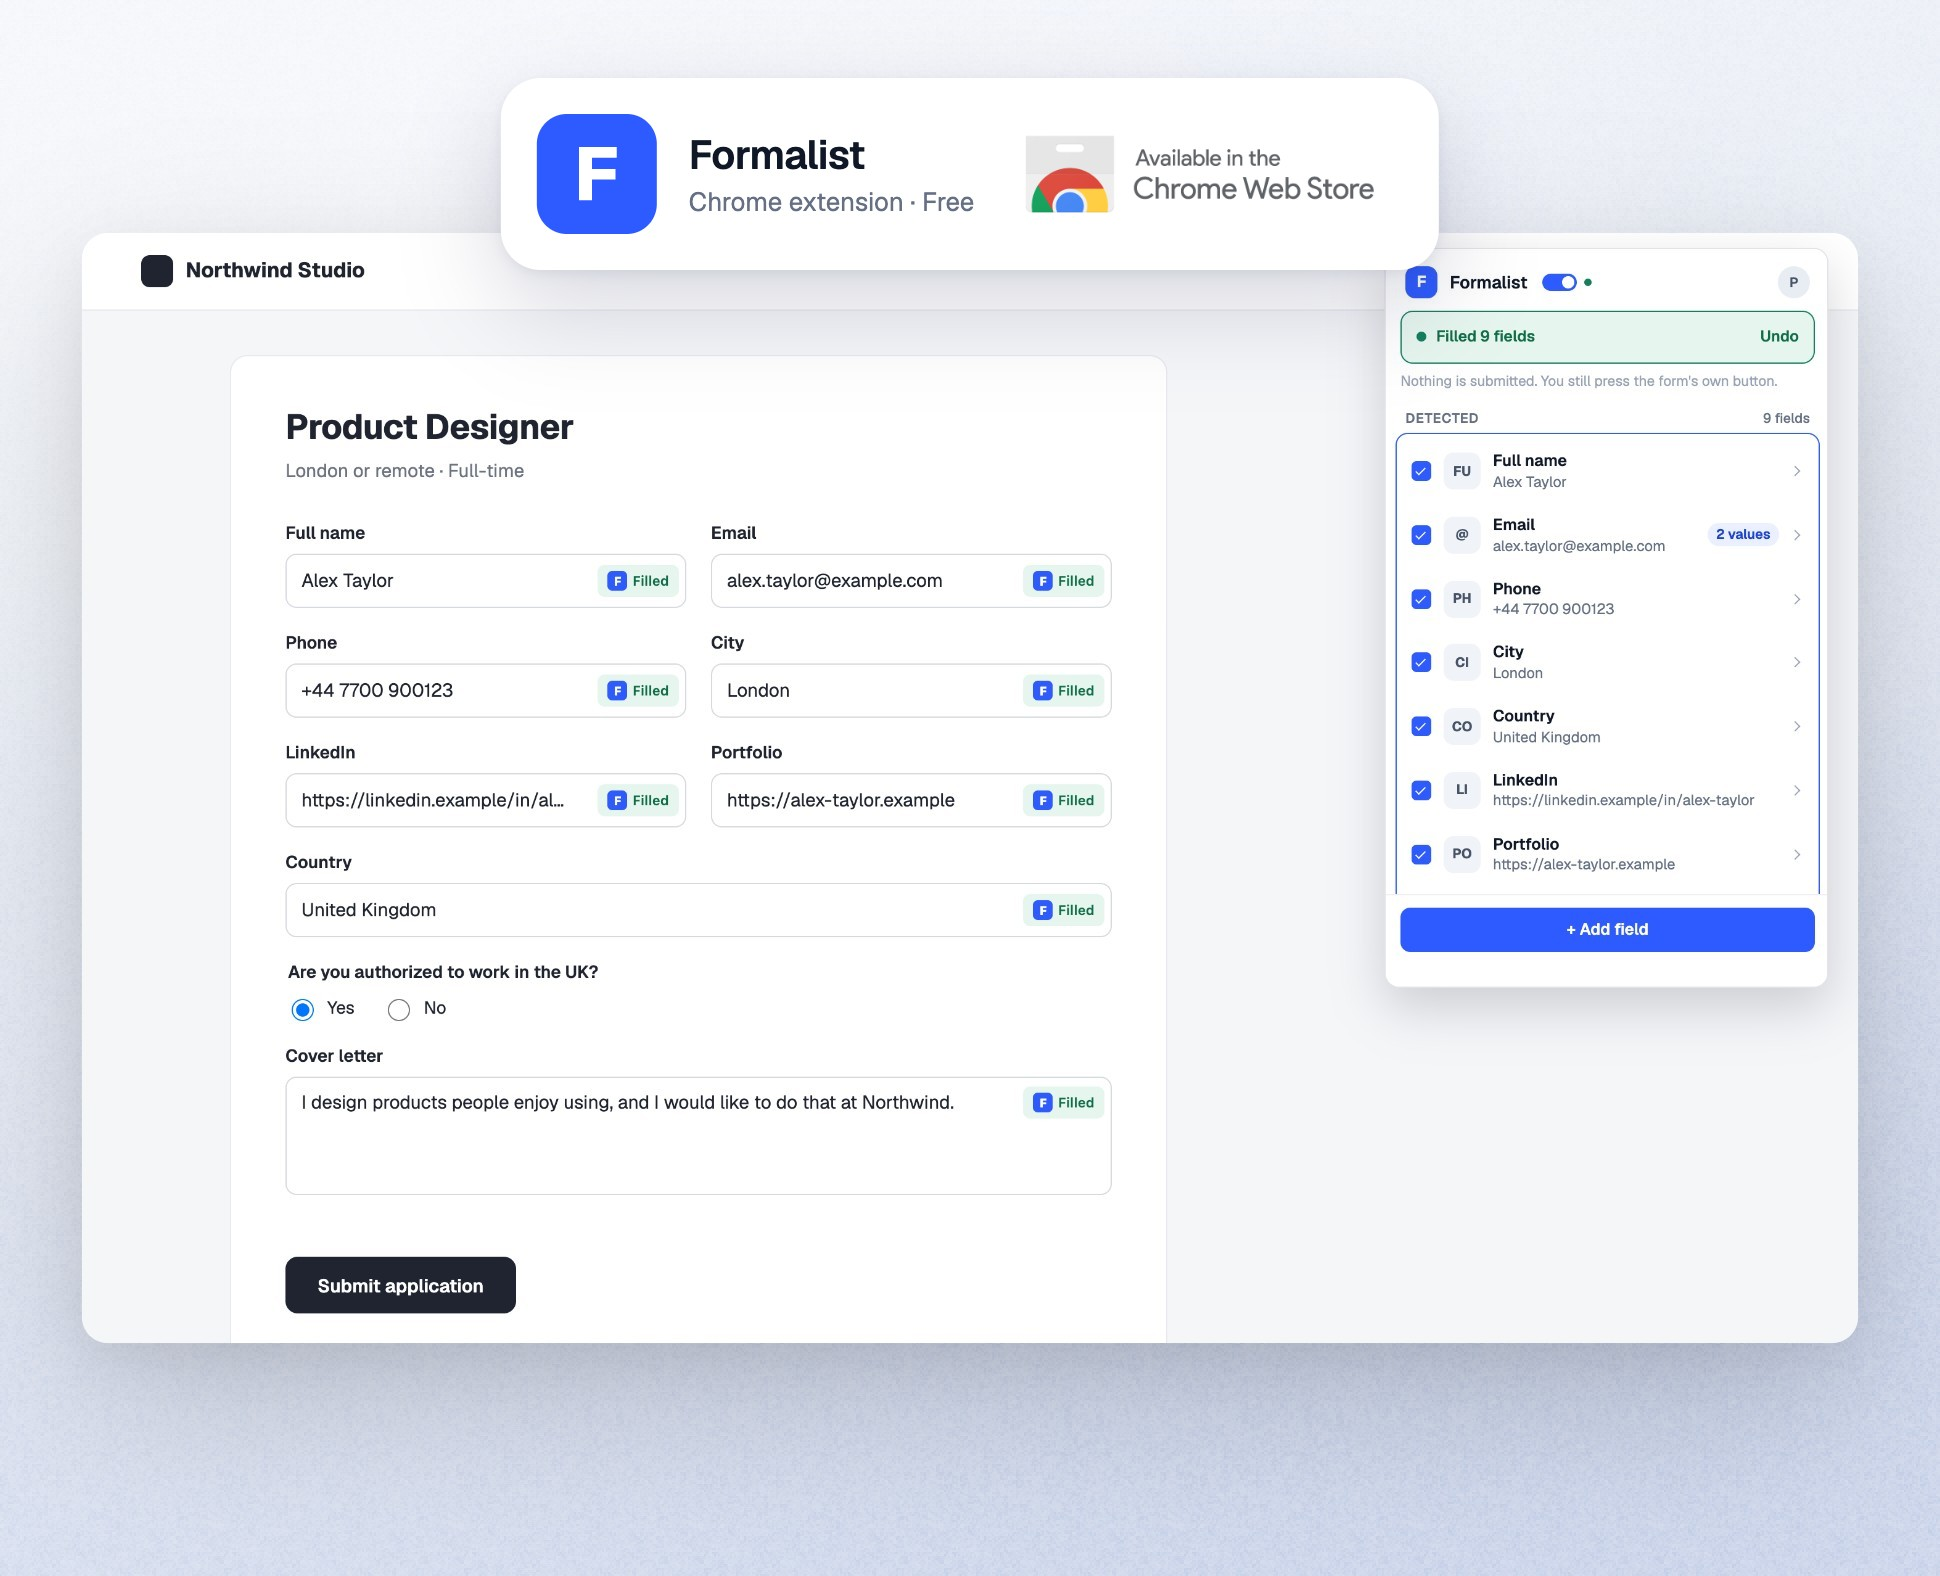
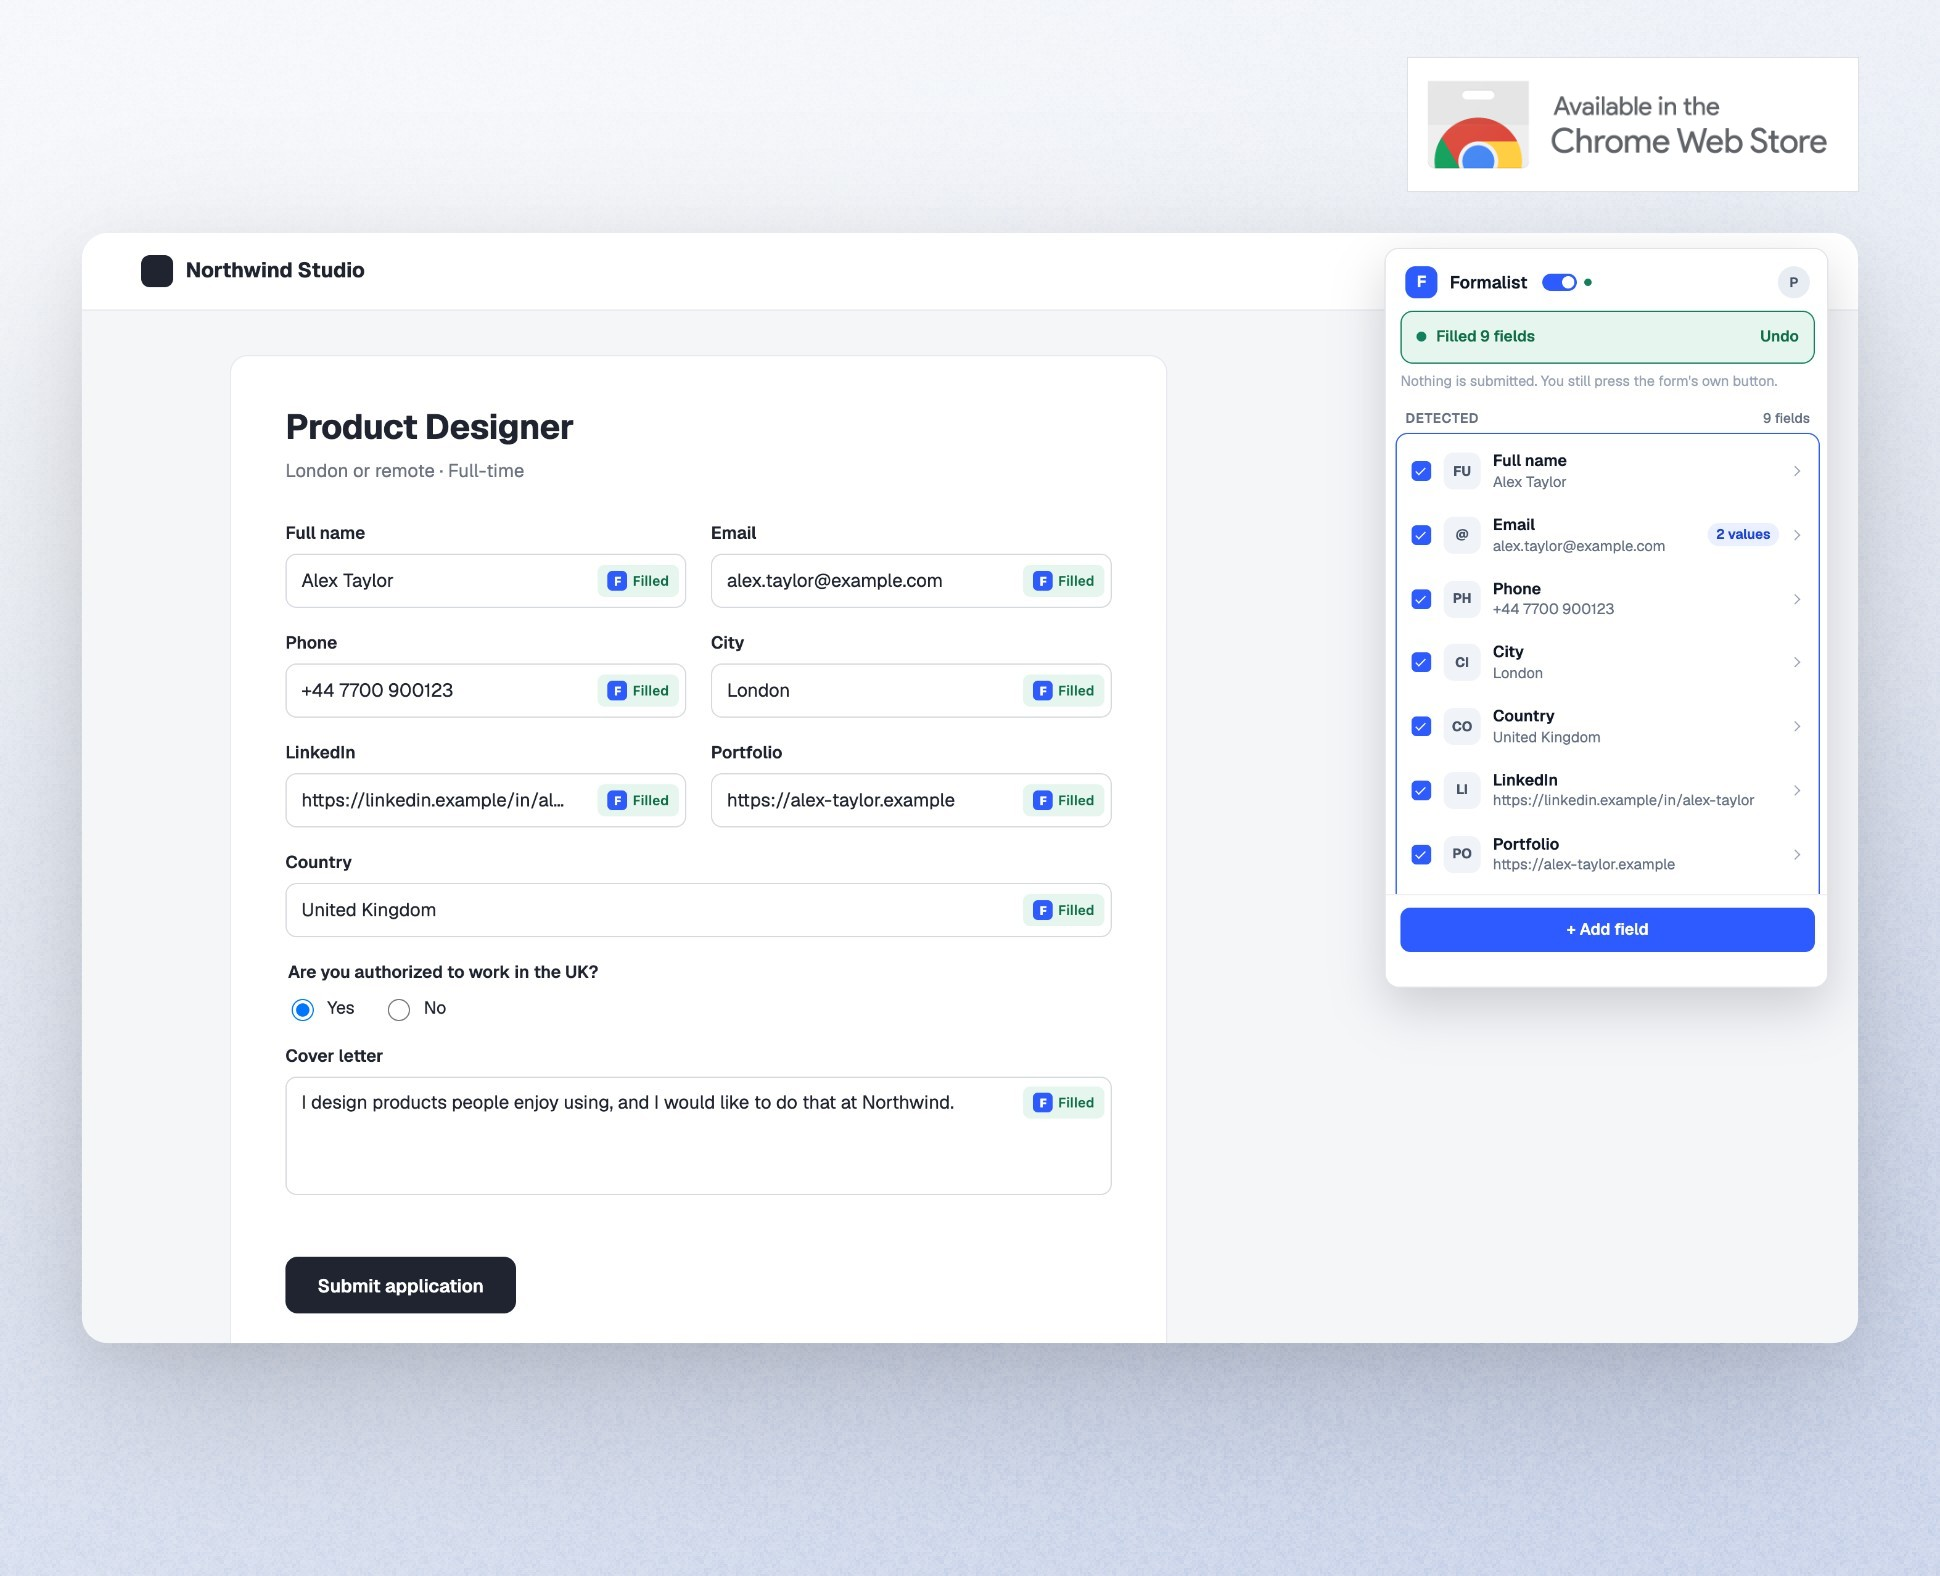
Formalist card: only Google's official badge, top right (Figma 576:35071)

Changed region(s): [[0.2784, 0.0622, 0.7423, 0.1865], [0.7113, 0.0622, 0.9278, 0.1244]]

diff --git a/thumbnails/overlays/formalist-store.html b/thumbnails/overlays/formalist-store.html
@@ -1,23 +1,11 @@
 <!doctype html>
-<!-- Formalist card: the Chrome Web Store listing on the top of the Shotkit picture, centred, where Rock placed it (Figma 571:10446).
-     Sizes are the Figma sketch x2, because the card picture is the 485 x 394 card at 4x. Colours are Formalist's own; the badge is Google's. -->
+<!-- Formalist card: Google's official "Available in the Chrome Web Store" badge on the Shotkit picture, top right,
+     where Rock placed it (Figma 576:35071). The badge is the large PNG with border from
+     developer.chrome.com/docs/webstore/branding, only resized. Sizes are the Figma frame x2 (the card picture is 4x). -->
 <html><head><meta charset="utf-8"><style>
-  @font-face { font-family: 'Geist'; src: url('geist.woff2') format('woff2'); font-weight: 100 900; }
   html, body { margin: 0; }
-  .shot { position: relative; width: 1940px; height: 1576px; background: url('../sources/formalist-card.jpg') 0 0 / 100% 100%; font-family: 'Geist', sans-serif; }
-  .listing { position: absolute; left: 50%; top: 78px; transform: translateX(-50%); display: flex; align-items: center; gap: 32px; padding: 36px; border-radius: 40px; background: #fff; white-space: nowrap;
-    box-shadow: 0 36px 96px rgba(26, 36, 77, .18), 0 4px 12px rgba(26, 36, 77, .08); }
-  .icon { width: 120px; height: 120px; display: block; }
-  .name { margin: 0; font-size: 40px; font-weight: 600; color: #101828; letter-spacing: -.01em; }
-  .where { margin: 4px 0 0; font-size: 26px; color: #667085; }
-  /* Google's official badge (developer.chrome.com/docs/webstore/branding, large PNG). Only resized, never changed. */
-  .badge { height: 120px; display: block; }
+  .shot { position: relative; width: 1940px; height: 1576px; background: url('../sources/formalist-card.jpg') 0 0 / 100% 100%; }
+  .badge { position: absolute; left: 1406px; top: 56px; width: 454px; height: auto; display: block; }
 </style></head><body>
-  <div class="shot">
-    <div class="listing">
-      <svg class="icon" viewBox="0 0 128 128"><rect width="128" height="128" rx="32" fill="#2E5BFF"/><path d="M44.94 92V35.2H85.26V46.56H51.02L58.86 38.48V64.48L51.02 58.56H83.82V69.92H51.02L58.86 64V92H44.94Z" fill="#fff"/></svg>
-      <div><p class="name">Formalist</p><p class="where">Chrome extension · Free</p></div>
-      <img class="badge" src="chrome-web-store-badge.png" alt="">
-    </div>
-  </div>
+  <div class="shot"><img class="badge" src="chrome-web-store-badge.png" alt=""></div>
 </body></html>

diff --git a/thumbnails/README.md b/thumbnails/README.md
@@ -8,7 +8,7 @@ To make them again, from a Shotkit checkout:
 
 - `cards.json` lists each card: its screenshot (or up to three phone screens) and where the picture goes. All cards share one background, sampled from the AI in the Company Profile screenshot (`groundFrom`).
 - `sources/` holds the screenshots that are not already in `src/assets`: phone screens cut out of case study pictures, the cleaned Interactive Panels picture, the App Management crop, and the side project screenshots.
-- `overlays/` adds things on top of a Shotkit picture. Formalist is the only one: Shotkit makes `sources/formalist-card.jpg`, then `formalist-store.html` puts the Chrome Web Store listing on it (Figma 571:10446). From the repo root:
+- `overlays/` adds things on top of a Shotkit picture. Formalist is the only one: Shotkit makes `sources/formalist-card.jpg`, then `formalist-store.html` puts Google's official Chrome Web Store badge on it (Figma 576:35071). From the repo root:
 
       node thumbnails/overlays/render.mjs thumbnails/overlays/formalist-store.html src/assets/cards/formalist.jpg
 
